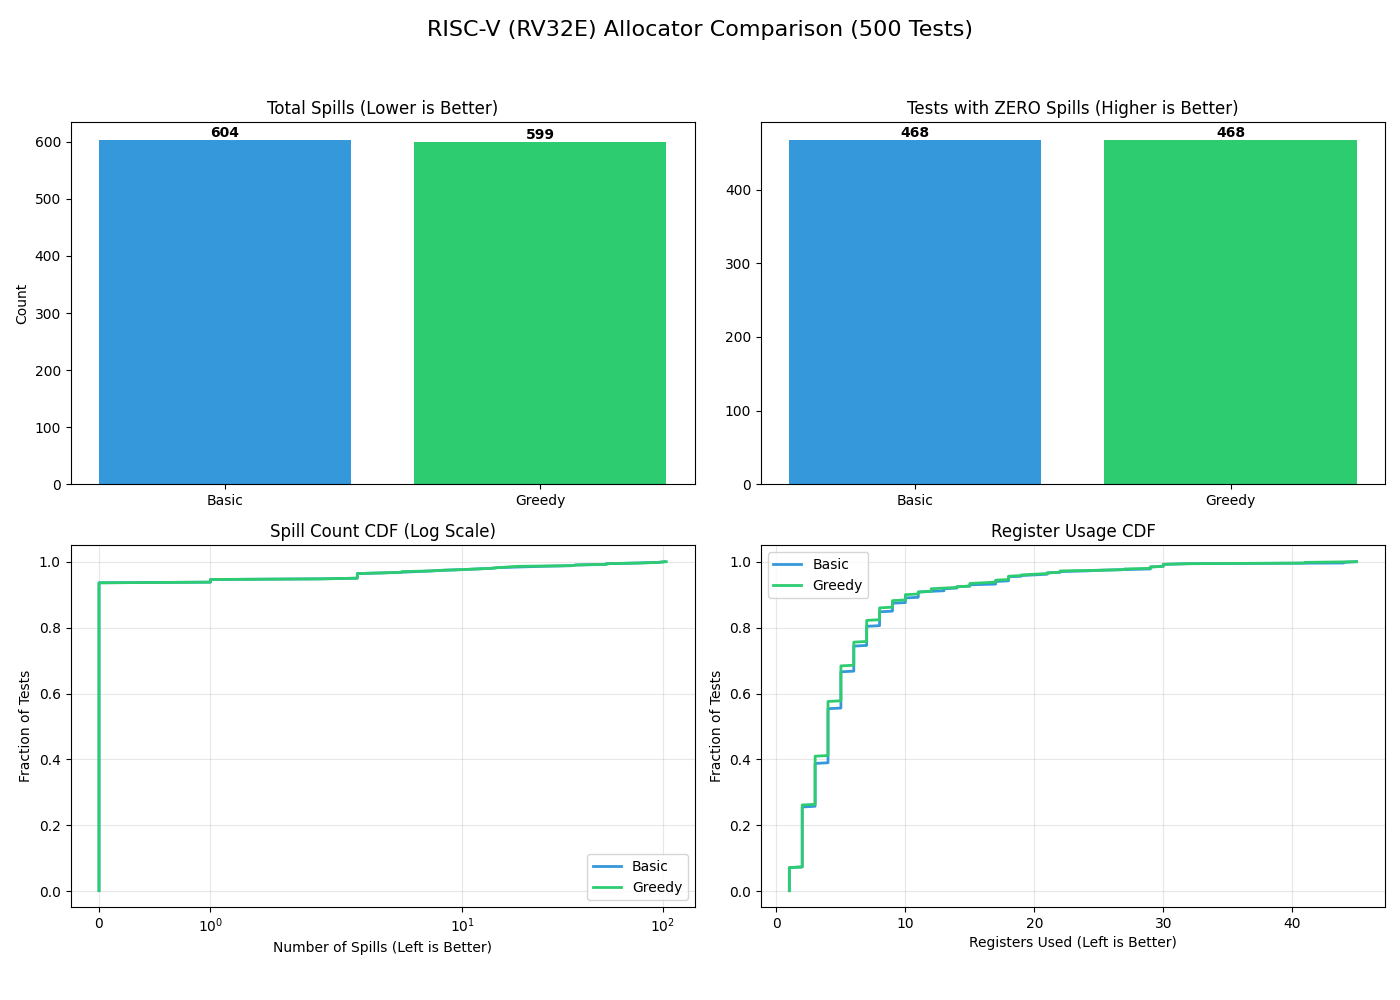
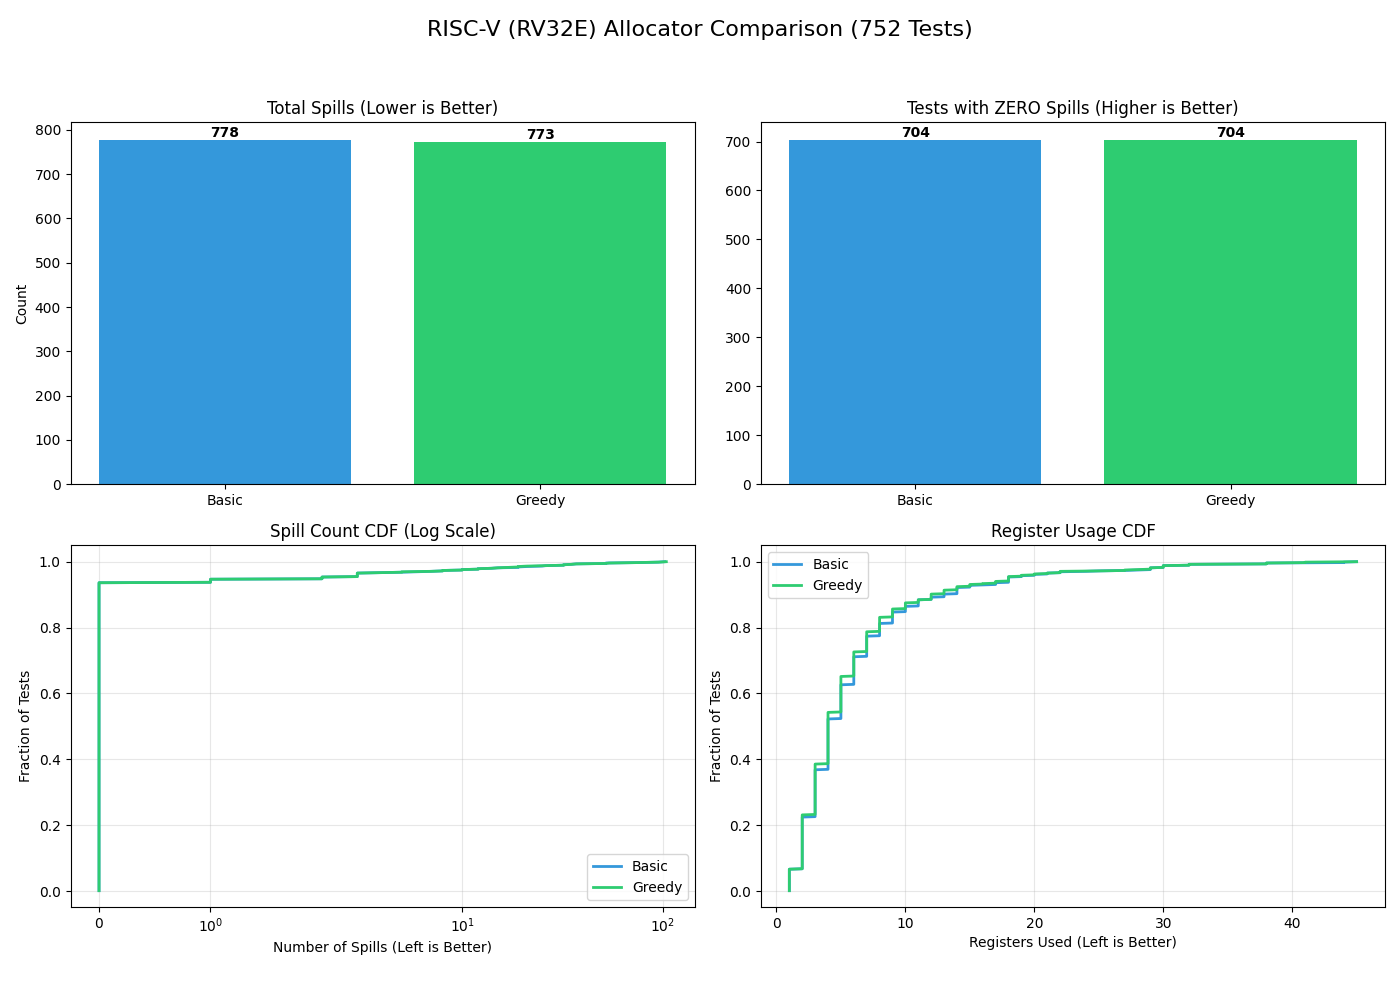
a

diff --git a/rv-csv.py b/rv-csv.py
@@ -4,26 +4,17 @@ import glob
 import subprocess
 import sys
 import csv
-import shutil
 
 # Configuration
-# Path to the specific custom build of llc
-LLC_CMD = os.path.abspath("build_rv1/bin/llc")
+LLC_CMD = "llc"
 TEST_DIR = "497"
 TEMP_ASM = "temp_output.s"
 OUTPUT_CSV = "benchmark_results.csv"
-TARGET_COUNT = 2000  # Stop after this many successful tests
+TARGET_COUNT = 500  # Stop after this many successful tests
 
 # Regex for RISC-V registers (ABI names and Architectural names)
+# FIXED: Correctly matches x0-x31, f0-f31 by grouping the numbers with the prefix.
 REG_PATTERN = re.compile(r'\b(?:[xf](?:[1-2][0-9]|3[0-1]|[0-9])|zero|ra|sp|gp|tp|t[0-6]|s[0-1]?[0-9]|a[0-7]|ft[0-7]|fs[0-1]?[0-9]|fa[0-7])\b')
-
-def delete_and_skip(file_path):
-    """Silently deletes the file."""
-    try:
-        if os.path.exists(file_path):
-            os.remove(file_path)
-    except OSError:
-        pass
 
 def parse_requirements(file_path):
     """Check if the file is suitable for RISC-V execution."""
@@ -37,7 +28,6 @@ def parse_requirements(file_path):
         forbidden = ['x86', 'aarch64', 'arm', 'mips', 'powerpc', 'hexagon', 'nvptx', 'amdgpu', 'systemz', 'wasm']
         for arch in forbidden:
             if arch in reqs:
-                delete_and_skip(file_path)
                 return False, None
     
     # 2. Extract RUN command and check -mtriple
@@ -45,45 +35,35 @@ def parse_requirements(file_path):
     llc_run = None
     for line in run_lines:
         if 'llc' in line:
-            # Check for explicitly forbidden architectures in -mtriple
+            # Check if this specific RUN line targets a non-RISCV architecture
+            # Matches -mtriple=x86_64, -mtriple=arm, etc.
             triple_match = re.search(r'-mtriple=([a-zA-Z0-9_]+)', line)
             if triple_match:
                 arch = triple_match.group(1).lower()
-                # If explicit triple exists, it MUST contain 'riscv'
+                # If triple is present but NOT riscv, skip it
                 if 'riscv' not in arch:
-                    continue 
+                    continue # Skip this RUN line, look for another
             
             llc_run = line
             break
             
     if not llc_run:
-        delete_and_skip(file_path)
         return False, None
             
     return True, llc_run
 
 def extract_clean_command(run_line, file_path):
     """Clean the RUN line to get a standalone llc command for RISC-V."""
-    # 1. Stop at pipes (|) or redirects (>)
     match = re.search(r'(llc.*?)(?:\s*[|>].*)?$', run_line)
     if not match:
-        delete_and_skip(file_path)
         return None
     cmd_str = match.group(1)
-
-    # 2. Replace generic 'llc' with the absolute path found on system
-    if cmd_str.startswith("llc"):
-        cmd_str = LLC_CMD + cmd_str[3:]
     
-    # 3. CRITICAL FIX: Remove trailing backslashes that cause shell to hang
-    cmd_str = cmd_str.replace('\\', ' ')
+    # --- CHANGED: Native Mode ---
+    # Since the host is RISC-V, we trust the file's original command entirely.
+    # We do NOT strip -mtriple or inject anything.
     
-    # 4. Handle input file replacement
-    if '< %s' in cmd_str:
-        cmd_str = cmd_str.replace('< %s', f'"{file_path}"')
-    else:
-        cmd_str = cmd_str.replace('%s', f'"{file_path}"')
-        
+    cmd_str = cmd_str.replace('%s', f'"{file_path}"')
     return cmd_str.strip()
 
 def count_unique_registers(asm_file):
@@ -118,11 +98,9 @@ def run_benchmark(file_path, run_cmd, alloc_mode):
             timeout=5 
         )
     except subprocess.TimeoutExpired:
-        delete_and_skip(file_path)
         return None, 0
 
     if result.returncode != 0:
-        delete_and_skip(file_path)
         return None, 0
 
     stderr_output = result.stderr.decode('utf-8', errors='ignore')
@@ -133,36 +111,30 @@ def run_benchmark(file_path, run_cmd, alloc_mode):
     return spills, regs
 
 def main():
-    if not os.path.exists(LLC_CMD):
-        print(f"Error: Custom 'llc' not found at: {LLC_CMD}")
-        print("Please check the path to your build_rv1 folder.")
-        sys.exit(1)
-        
     files = glob.glob(os.path.join(TEST_DIR, "*.ll"))
     
-    # Sort files in Reverse Alphabetical order (Z -> A)
-    files.sort(key=lambda x: os.path.basename(x).lower(), reverse=True)
+    # --- CHANGED: Case-Insensitive Sort ---
+    files.sort(key=lambda x: os.path.basename(x).lower())
     
-    # Find the first file starting with 'r'
+    # Rotate list to start at 'r'
     start_index = 0
     for i, fpath in enumerate(files):
         fname = os.path.basename(fpath).lower()
-        if fname.startswith('r'):
+        if fname >= 'r':
             start_index = i
             break
             
-    # Rotate list to start at R
     files = files[start_index:] + files[:start_index]
 
     total_files = len(files)
     start_file_name = os.path.basename(files[0]) if files else "None"
     print(f"Found {total_files} .ll files. Processing for Native RISC-V.")
-    print(f"Using LLC: {LLC_CMD}")
     print(f"Starting at file: {start_file_name}")
-    print("Processing order: Reverse Alphabetical (Z->A), starting at 'R'")
     
     valid_count = 0
+    skipped_count = 0
     
+    # Open CSV for writing
     with open(OUTPUT_CSV, 'w', newline='') as csvfile:
         fieldnames = ['filename', 'basic_spills', 'basic_regs', 'greedy_spills', 'greedy_regs']
         writer = csv.DictWriter(csvfile, fieldnames=fieldnames)
@@ -172,35 +144,38 @@ def main():
             if valid_count >= TARGET_COUNT:
                 break
 
-            sys.stdout.write(f"\r[Collected: {valid_count}/{TARGET_COUNT}] Scanning {i+1}/{total_files} ({os.path.basename(fpath)})...")
+            # Show skipped count to confirm script is working
+            sys.stdout.write(f"\r[Collected: {valid_count}/{TARGET_COUNT} | Skipped: {skipped_count}] Scanning {i+1}/{total_files} ({os.path.basename(fpath)})...")
             sys.stdout.flush()
             
             valid, run_line = parse_requirements(fpath)
             if not valid or not run_line:
-                # File deleted inside parse_requirements
+                skipped_count += 1
                 continue
                 
             clean_cmd = extract_clean_command(run_line, fpath)
             if not clean_cmd:
-                # File deleted inside extract_clean_command
+                skipped_count += 1
                 continue
                 
             # Run Basic
             b_spill, b_reg = run_benchmark(fpath, clean_cmd, "basic")
             if b_reg is None: 
-                # File deleted inside run_benchmark
+                skipped_count += 1
                 continue 
             
             # Run Greedy
             g_spill, g_reg = run_benchmark(fpath, clean_cmd, "greedy")
             if g_reg is None: 
-                # File deleted inside run_benchmark
+                skipped_count += 1
                 continue 
             
+            # Filter trivial files
             if b_reg == 0 and g_reg == 0:
-                delete_and_skip(fpath)
+                skipped_count += 1
                 continue
                 
+            # Write row immediately
             writer.writerow({
                 'filename': os.path.basename(fpath),
                 'basic_spills': b_spill,
@@ -208,7 +183,7 @@ def main():
                 'greedy_spills': g_spill,
                 'greedy_regs': g_reg
             })
-            csvfile.flush() 
+            csvfile.flush() # Ensure data is saved if script crashes
             valid_count += 1
             
     print(f"\n\nDone! Saved {valid_count} records to {OUTPUT_CSV}")

diff --git a/llvm/include/llvm/CodeGen/Passes.h b/llvm/include/llvm/CodeGen/Passes.h
@@ -230,6 +230,9 @@ LLVM_ABI FunctionPass *createFastRegisterAllocator(RegAllocFilterFunc F,
 LLVM_ABI FunctionPass *createBasicRegisterAllocator();
 LLVM_ABI FunctionPass *createBasicRegisterAllocator(RegAllocFilterFunc F);
 
+LLVM_ABI FunctionPass *createSSARegisterAllocator();
+LLVM_ABI FunctionPass *createSSARegisterAllocator(RegAllocFilterFunc F);
+
 /// Greedy register allocation pass - This pass implements a global register
 /// allocator for optimized builds.
 ///
